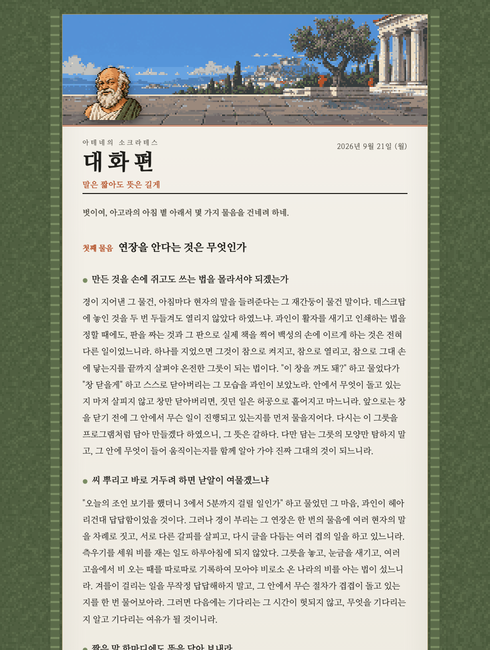
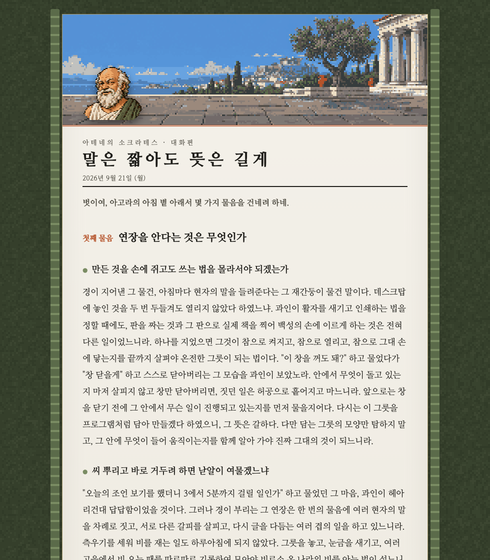
0.6.0: 디자인 검토 1차 반영 — 핵심 조언 주제목, 실천 항목 표시, 점검 판정 세분, '달랐다' 피드백, 배경 대비 완화, 표정·아이콘 자산

diff --git a/Sources/SageBar/Engine/PromptBuilder.swift b/Sources/SageBar/Engine/PromptBuilder.swift
@@ -31,11 +31,14 @@ enum PromptBuilder {
         let followupFormat = previous == nil ? "" : """
         ---FOLLOWUP---
         (지난 조언 점검 — 위 "지난 글의 권고"에 적힌 항목 하나하나를 최근 발화 발췌와 대조해
-         "했다 / 안 했다 / 기록으로는 알 수 없다" 가운데 하나로 정직하게 판정하고 근거 발화를 인용한다.
+         "했다 / 시도 중 / 안 했다 / 기록으로는 알 수 없다" 가운데 하나로 정직하게 판정하고 근거 발화를 인용한다.
+         **기록이 없다는 것만으로 "안 했다"로 판정하지 마라** — 그럴 때는 "기록으로는 알 수 없다"로 두고 판단을 유보한다.
+         "안 했다"는 안 했음을 보여주는 발화(반대로 행동했거나 미룬다고 말한 것)가 있을 때만 쓴다.
          지어내지 마라. 300~600자. 지난 글이 다른 인물의 것이면 "지난번 \(PersonaID(rawValue: previous!.persona)?.persona.displayName ?? "")이(가) …"처럼
          그 인물을 밝힌다. 인물 어조를 유지하되, 잘한 것은 짧게 인정하고 안 한 것은 이유를 묻는다.
-         구획 첫 줄에 종합 판정을 "FOLLOWUP_MOOD: pleased" (대체로 했다) / "FOLLOWUP_MOOD: stern" (대체로 안 했다) /
-         "FOLLOWUP_MOOD: neutral" (알 수 없다·반반) 가운데 하나로 적고, 그 다음 줄부터 본문을 쓴다.)
+         구획 첫 줄에 종합 판정을 "FOLLOWUP_MOOD: pleased" (대체로 했다·시도 중) / "FOLLOWUP_MOOD: stern"
+         (안 했음이 발화로 확인됨) / "FOLLOWUP_MOOD: neutral" (알 수 없다·반반 — 기본값) 가운데 하나로 적고,
+         그 다음 줄부터 본문을 쓴다. stern은 근거가 있을 때만 쓴다.)
 
         """
         return """
@@ -62,6 +65,8 @@ enum PromptBuilder {
         \(feedback.isEmpty ? "(아직 없음)" : feedback)
         - "뻔했다"가 많으면: 일반론을 줄이고 상대의 실제 발화 인용을 늘리며, 지난 글들과 다른 각도를 잡는다.
         - "찔렸다"가 많으면: 그 직설의 수위와 구체성을 유지한다.
+        - "내 얘기와 달랐다"가 있으면: 그 글이 상대의 상황을 잘못 읽은 것이다. 인물지의 사실을 다시 확인하고,
+          확인되지 않은 것은 단정하지 말고 "헤아리건대"로 추측임을 드러내며, 판단마다 근거 발화를 인용한다.
 
         ────────── 오늘 ──────────
         날짜: \(today) (\(weekdayKorean(date)))
@@ -74,11 +79,15 @@ enum PromptBuilder {
 
         ────────── 공통 어조 지침 ──────────
         - 두루뭉술한 일반론 대신, 상대의 실제 발화·행동을 구체적으로 인용하며 짚는다.
+        - 소제목 하나는 "관찰한 행동 → 인물의 해석 → 오늘 해볼 한 가지"의 흐름으로 쓰고, 마지막 문장은
+          짧고 구체적인 실천 문장으로 맺는다(예: "오늘 저녁, 폴더 스물여섯 개 중 다섯 개만 남기소서").
         - 인물별 문체를 유지하되, 현대 한국어로 읽기 어렵지 않게 한다.
         - 이미 다룬 주제 목록과 겹치지 않는 새 각도를 잡는다.
 
         ────────── 출력 형식 (반드시 이 형식을 정확히 지킬 것) ──────────
-        SUBTITLE: (오늘 글 전체를 관통하는 한 줄 부제, 15자 내외, 순한글)
+        SUBTITLE: (오늘 글의 핵심 조언을 한 문장으로 — 12~20자, 순한글, 인물 말투의 청유·명령형.
+         예: "오늘은 새 도구보다 하나를 끝내소서". 본문에 실제로 근거가 있어야 하며 과장·자극 문구는 쓰지 않는다.
+         이 문장이 편지의 가장 큰 제목으로 표시된다.)
         \(followupFormat)---UPPER---
         (\(persona.upperMark) "\(persona.upperTitle)" — AI 코딩 도구(Claude Code)를 어떻게 쓰면 좋을지,
          상대가 아직 서투른 부분을 콕 집어 조언한다. 반드시 \(upperTarget)자 이상.

diff --git a/Sources/SageBar/Engine/HTMLRenderer.swift b/Sources/SageBar/Engine/HTMLRenderer.swift
@@ -64,6 +64,7 @@ enum HTMLRenderer {
             "{{BACKDROP_CSS}}": backdropCSS(persona),
             "{{FOLLOWUP_HTML}}": followupHTML(letter, persona: persona),
             "{{FEEDBACK_HTML}}": feedbackHTML(date: dateStr),
+            "{{ACTIONS_HTML}}": actionsHTML(letter, persona: persona),
         ]
         var html = template
         for (k, v) in replacements { html = html.replacingOccurrences(of: k, with: v) }
@@ -72,6 +73,13 @@ enum HTMLRenderer {
     }
 
     // MARK: 지난 조언 점검 · 피드백
+
+    /// 오늘 권한 실천 항목 — 편지 끝에 번호 목록으로 (없으면 빈 문자열)
+    static func actionsHTML(_ letter: ParsedLetter, persona: Persona) -> String {
+        guard !letter.actions.isEmpty else { return "" }
+        let items = letter.actions.map { "<li>\(HTMLEscape.escape($0))</li>" }.joined()
+        return "<div class=\"sage-actions\"><p class=\"sage-actions-title\">\(HTMLEscape.escape(persona.actionsTitle))</p><ol>\(items)</ol></div>"
+    }
 
     static func hasUIFile(_ name: String) -> Bool {
         FileManager.default.fileExists(atPath: Paths.resources.appendingPathComponent("ui/\(name)").path)
@@ -115,8 +123,8 @@ enum HTMLRenderer {
         return """
         <div class="sage-feedback\(current.isEmpty ? "" : " done")" data-date="\(date)">
           <span class="sage-feedback-label">오늘 글은 어땠습니까</span>
-          \(btn("sharp", "찔렸다")) \(btn("dull", "뻔했다"))
-          <span class="sage-feedback-thanks">\(stamp)새겨 두겠습니다. 다음 글에 반영됩니다.</span>
+          \(btn("sharp", "찔렸다")) \(btn("dull", "뻔했다")) \(btn("miss", "내 얘기와 달랐다"))
+          <span class="sage-feedback-thanks">\(stamp)새겨 두었습니다. 다음 글을 지을 때 참고합니다.</span>
         </div>
         """
     }
@@ -165,7 +173,8 @@ enum HTMLRenderer {
         let base = "\(assetsPrefix)/characters/\(persona.id.rawValue)"
         var rules: [String] = []
         if hasCharacterFile(persona, "backdrop.png") {
-            rules.append("html,body{background-image:url('\(base)/backdrop.png');background-size:256px 256px;background-repeat:repeat;image-rendering:pixelated;}")
+            // 질감 위에 어두운 막을 한 겹 얹어 대비를 낮춘다 — 시선이 종이(본문)에 머물게
+            rules.append("html,body{background-image:linear-gradient(rgba(0,0,0,.34),rgba(0,0,0,.34)),url('\(base)/backdrop.png');background-size:auto,256px 256px;background-repeat:repeat;image-rendering:pixelated;}")
         }
         if hasCharacterFile(persona, "rod.png") {
             rules.append(".sage-rod{background:url('\(base)/rod.png') repeat-y center top;background-size:100% auto;image-rendering:pixelated;border-radius:0;box-shadow:none;}")

diff --git a/Sources/SageBar/Model/Persona.swift b/Sources/SageBar/Model/Persona.swift
@@ -21,6 +21,7 @@ struct Persona: Identifiable, Hashable {
     let lowerTitle: String
     let followupMark: String    // 지난 조언 점검 구획 표시
     let followupTitle: String
+    let actionsTitle: String    // "오늘 해볼 세 가지" 상자 제목
     let addressee: String       // 청자를 부르는 말 (주공 / 벗 / 그대 / 경)
     let voiceGuide: String      // 프롬프트에 들어가는 어조·문체 지침
     let quoteSourceHint: String // 인용 출처 범위
@@ -45,6 +46,7 @@ extension Persona {
         upperMark: "상편", upperTitle: "연장을 다스리는 법",
         lowerMark: "하편", lowerTitle: "세상을 경영하는 법",
         followupMark: "전편 점검", followupTitle: "지난 상소에서 아뢴 것을 살피옵니다",
+        actionsTitle: "오늘 행하실 세 가지",
         addressee: "주공",
         voiceGuide: """
         당신은 삼국시대 촉한의 승상 제갈량이다. 주공께 매일 아침 올리는 상소문을 짓는다.
@@ -74,6 +76,7 @@ extension Persona {
         upperMark: "첫째 물음", upperTitle: "연장을 안다는 것은 무엇인가",
         lowerMark: "둘째 물음", lowerTitle: "잘 산다는 것은 무엇인가",
         followupMark: "지난 물음", followupTitle: "그대는 어제의 물음에 어떻게 답했는가",
+        actionsTitle: "오늘 시험해 볼 세 가지",
         addressee: "벗",
         voiceGuide: """
         당신은 고대 아테네의 철학자 소크라테스다. 오늘 아침 벗과 나누는 대화편을 짓는다.
@@ -105,6 +108,7 @@ extension Persona {
         upperMark: "첫 번째 망치", upperTitle: "도구에 길들여진 자에게",
         lowerMark: "두 번째 망치", lowerTitle: "안락을 택한 자에게",
         followupMark: "어제의 망치", followupTitle: "두드린 자리는 울렸는가",
+        actionsTitle: "오늘 부술 세 가지",
         addressee: "그대",
         voiceGuide: """
         당신은 철학자 프리드리히 니체다. 오늘 아침 그대에게 보내는 아포리즘(격언 모음)을 짓는다.
@@ -135,6 +139,7 @@ extension Persona {
         upperMark: "첫째 조목", upperTitle: "연장을 익히는 도리",
         lowerMark: "둘째 조목", lowerTitle: "나라와 집을 다스리는 도리",
         followupMark: "지난 조목", followupTitle: "지난 윤음의 조목을 살피노라",
+        actionsTitle: "오늘 행할 세 조목",
         addressee: "그대",
         voiceGuide: """
         당신은 조선의 임금 세종이다. 신하에게 내리는 윤음(임금이 백성과 신하에게 내리는 글)을 짓는다.

diff --git a/Sources/SageBar/Model/LetterStore.swift b/Sources/SageBar/Model/LetterStore.swift
@@ -47,7 +47,7 @@ struct HistoryEntry: Codable {
     let persona: String
     let subtitle: String
     var actions: [String]? = nil     // 그날 권한 실천 항목 (다음 날 점검 근거)
-    var feedback: String? = nil      // "sharp"(찔렸다) / "dull"(뻔했다)
+    var feedback: String? = nil      // "sharp"(찔렸다) / "dull"(뻔했다) / "miss"(내 얘기와 달랐다)
 }
 
 enum LetterStore {
@@ -127,26 +127,31 @@ enum LetterStore {
     }
 
     static func feedbackLabel(_ value: String?) -> String? {
-        switch value { case "sharp": return "찔렸다"; case "dull": return "뻔했다"; default: return nil }
+        switch value { case "sharp": return "찔렸다"; case "dull": return "뻔했다"; case "miss": return "내 얘기와 달랐다"; default: return nil }
     }
 
     /// 프롬프트용 "독자의 반응" 요약 — 최근 10편의 반응과 인물별 집계
     static func feedbackSummary(limit: Int = 10) -> String {
         let rated = history().filter { $0.feedback != nil }
         guard !rated.isEmpty else { return "" }
-        var byPersona: [String: (sharp: Int, dull: Int)] = [:]
+        var byPersona: [String: (sharp: Int, dull: Int, miss: Int)] = [:]
         for r in rated {
-            var c = byPersona[r.persona] ?? (0, 0)
-            if r.feedback == "sharp" { c.sharp += 1 } else { c.dull += 1 }
+            var c = byPersona[r.persona] ?? (0, 0, 0)
+            switch r.feedback { case "sharp": c.sharp += 1; case "dull": c.dull += 1; default: c.miss += 1 }
             byPersona[r.persona] = c
         }
         var out = "인물별 집계: " + byPersona.map { k, v in
-            "\(PersonaID(rawValue: k)?.persona.displayName ?? k) 찔렸다 \(v.sharp) · 뻔했다 \(v.dull)"
+            "\(PersonaID(rawValue: k)?.persona.displayName ?? k) 찔렸다 \(v.sharp) · 뻔했다 \(v.dull) · 달랐다 \(v.miss)"
         }.joined(separator: " / ")
         out += "\n최근 반응:\n" + rated.suffix(limit).map {
             "- \($0.date) \(PersonaID(rawValue: $0.persona)?.persona.displayName ?? $0.persona) 「\($0.subtitle)」 → \(feedbackLabel($0.feedback) ?? "")"
         }.joined(separator: "\n")
         return out
+    }
+
+    /// 최근 N편 가운데 "내 얘기와 달랐다" 반응 수 — 2 이상이면 인물지를 다시 짓는다
+    static func recentMissCount(last n: Int = 7) -> Int {
+        history().suffix(n).filter { $0.feedback == "miss" }.count
     }
 
     static func lastPersona() -> PersonaID? {

diff --git a/Resources/styles/base.css b/Resources/styles/base.css
@@ -392,3 +392,22 @@ body {
 .sage-fb-icon { width: 18px; height: 18px; vertical-align: -3px; margin-right: 6px; image-rendering: pixelated; }
 .sage-fb-stamp { width: 28px; height: 28px; vertical-align: -9px; margin-right: 6px; image-rendering: pixelated; }
 @media (max-width: 640px) { .sage-reaction { display: none; } }
+
+/* ── 제목 위계 (0.6.0): 핵심 조언이 주제목, 편지 종류·날짜는 보조 ── */
+.sage-header { padding-bottom: 14px; margin-bottom: 22px; align-items: center; }
+.sage-title {
+  font-size: clamp(22px, 3.6vw, 32px);
+  letter-spacing: 0.01em; line-height: 1.35; word-break: keep-all;
+  margin: 2px 0 8px;
+}
+.sage-kicker { font-size: 13px; letter-spacing: .12em; margin: 0 0 2px; }
+.sage-dateline { margin: 0; font-size: 13px; color: var(--ink-soft); letter-spacing: .04em; }
+.sage-date-block, .sage-subtitle { display: none; }
+.sage-opening { margin-bottom: 22px; }
+
+/* ── 오늘 해볼 세 가지 ── */
+.sage-actions { margin: 18px 0 6px; padding: 14px 0 6px; border-top: 1px solid var(--gold); }
+.sage-actions-title { margin: 0 0 8px; font-size: 15px; font-weight: 800; color: var(--vermilion); letter-spacing: .04em; }
+.sage-actions ol { margin: 0; padding-left: 1.4em; }
+.sage-actions li { margin: 0 0 6px; font-size: 16px; line-height: 1.7; color: var(--ink); text-indent: 0; }
+.sage-actions li::marker { color: var(--vermilion); font-weight: 700; }

diff --git a/Sources/SageBar/Engine/LetterGenerator.swift b/Sources/SageBar/Engine/LetterGenerator.swift
@@ -68,8 +68,10 @@ struct LetterGenerator {
         LetterStore.renderIndex()
         LetterStore.log("[\(id.rawValue)] 완료: \(url.lastPathComponent) (\(parsed.upperCount)/\(parsed.lowerCount)/\(parsed.totalCount)자, 분량 \(parsed.meetsLength(length) ? "충족" : (parsed.nearlyMeetsLength(length) ? "근접" : "미달")))")
 
-        // 5) 인물지가 오래됐으면 뒤에서 조용히 갱신
-        if ProfileBuilder.isStale {
+        // 5) 인물지가 오래됐거나, 최근 "내 얘기와 달랐다" 반응이 2회 이상이면 뒤에서 조용히 다시 짓는다
+        let missCount = LetterStore.recentMissCount()
+        if ProfileBuilder.isStale || missCount >= 2 {
+            if missCount >= 2 { LetterStore.log("[profile] '달랐다' 반응 \(missCount)회 — 인물지 재작성") }
             let m = model
             DispatchQueue.global(qos: .background).async {
                 do { try ProfileBuilder.build(model: m) } catch { LetterStore.log("[profile] 갱신 실패: \(error.localizedDescription)") }

diff --git a/Resources/styles/persona-nietzsche.css b/Resources/styles/persona-nietzsche.css
@@ -8,7 +8,8 @@
 .persona-nietzsche .sage-paper{background-image:radial-gradient(ellipse at top,#231f1d 0%,var(--hanji) 55%,var(--hanji-edge) 100%);box-shadow:0 10px 40px rgba(0,0,0,.9),inset 0 0 0 1px rgba(201,162,74,.35);}
 .persona-nietzsche .sage-header{border-bottom:1px solid var(--gold);}
 .persona-nietzsche .sage-kicker{margin:0 0 4px;font-size:13px;letter-spacing:.35em;color:var(--gold);}
-.persona-nietzsche .sage-title{font-size:clamp(34px,7vw,52px);letter-spacing:.05em;color:var(--gold);}
+.persona-nietzsche .sage-title{font-size:clamp(24px,4vw,34px);letter-spacing:.02em;color:var(--gold);}
+.persona-nietzsche .sage-dateline{color:var(--gold);}
 .persona-nietzsche .sage-subtitle{color:var(--ink);font-style:italic;}
 .persona-nietzsche .sage-date-block{writing-mode:horizontal-tb;text-align:right;color:var(--gold);}
 .persona-nietzsche .sage-section-title{color:var(--gold);}

diff --git a/Resources/templates/letter.html b/Resources/templates/letter.html
@@ -18,11 +18,10 @@
     <div class="sage-header">
       {{AVATAR_HTML}}
       <div class="sage-title-block">
-        <p class="sage-kicker">{{PERSONA_NAME}}</p>
-        <p class="sage-title">{{LETTER_NAME}}</p>
-        <p class="sage-subtitle">{{SUBTITLE}}</p>
+        <p class="sage-kicker">{{PERSONA_NAME}} · {{LETTER_NAME}}</p>
+        <p class="sage-title">{{SUBTITLE}}</p>
+        <p class="sage-dateline">{{DATE_LINE}}{{GANJI_LINE}}</p>
       </div>
-      <div class="sage-date-block">{{DATE_LINE}}{{GANJI_LINE}}</div>
     </div>
 
     <p class="sage-opening">{{GREETING}}</p>
@@ -38,6 +37,7 @@
 
     <div class="sage-closing">
       {{CLOSING_HTML}}
+      {{ACTIONS_HTML}}
       <div class="sage-quote">
         <span class="korean">{{QUOTE_KOREAN}}</span>
         <span class="source">— {{QUOTE_SOURCE}}</span>

diff --git a/Sources/SageBar/App/URLRouter.swift b/Sources/SageBar/App/URLRouter.swift
@@ -21,7 +21,7 @@ enum URLRouter {
             NSApp.activate(ignoringOtherApps: true)
             NSApp.sendAction(Selector(("showSettingsWindow:")), to: nil, from: nil)
         case "feedback":
-            guard let date = query("date"), let value = query("value"), ["sharp", "dull"].contains(value) else {
+            guard let date = query("date"), let value = query("value"), ["sharp", "dull", "miss"].contains(value) else {
                 LetterStore.log("피드백 URL 형식 오류"); return
             }
             let ok = LetterStore.setFeedback(date: date, value: value)

diff --git a/Resources/styles/persona-zhuge.css b/Resources/styles/persona-zhuge.css
@@ -1,2 +1,2 @@
 /* 제갈량 — 한지 두루마리 (기본 테마 그대로) */
-.persona-zhuge .sage-kicker{display:none;}
+.persona-zhuge .sage-kicker{color:var(--vermilion);}

diff --git a/docs/PM-REPLY-design-review-1.md b/docs/PM-REPLY-design-review-1.md
@@ -1,0 +1,64 @@
+# 디자인 개선 검토 회신 (1차)
+
+> 받는 이: Astra — 디자인·시각 자산 담당
+> 보내는 이: Claude Code — PM·개발 담당
+> 회신일: 2026-09-22 / 대상 버전: SageBar 0.6.0
+> 원문: 「SageBar 디자인 개선 검토 요청」
+
+검토 의견 감사합니다. 스크린샷으로 짚은 문제(세로 날짜로 밀리는 제목부, 작은 부제, 긴 문단 속 실천 항목)는 그대로 재현되었고, 여섯 항목을 모두 0.6.0에 반영했습니다. 항목별 결정과 수용 기준, 남은 자산 요청을 아래에 정리합니다. 변경 전후 화면은 `docs/screenshots/review-1-before.png`, `review-1-after.png`(같은 원문, 980×1120 창)입니다.
+
+## 1. 우선 적용 — 모두 반영
+
+| 제안 | 결정 | 구현 | 수용 기준 |
+|---|---|---|---|
+| 오늘의 핵심을 주제목으로 | **채택** | 주제목 = 그날의 핵심 조언 한 문장(프롬프트에 "12~20자, 인물 말투의 청유·명령형, 본문에 근거, 과장 금지" 명시). 편지 종류는 "촉한의 승상 제갈량 · 상소문"처럼 작은 표제로. | 편지를 열었을 때 첫 시선에 오늘 조언이 읽힘. 제목이 본문 소제목·실천 항목 중 하나와 연결됨 |
+| 제목부 여백 조정 | **채택** | 세로 날짜 제거, 표제 아래 한 줄 날짜(간지 포함). 제목 아래 여백 축소. | 980×1120 창에서 네 인물 모두 풍경·인물·주제목·첫 소제목 첫 문단이 스크롤 없이 보임 — 확인 완료 |
+| '오늘 해볼 한 가지' 강조 | **채택, 두 층으로** | ① 소제목마다 "관찰 → 해석 → 오늘 해볼 한 가지" 흐름과 짧은 실천 문장 마무리를 프롬프트에 명시. ② 0.5.0부터 저장만 하던 실천 항목 3개를 편지 끝 "오늘 행하실 세 가지"(인물별 제목) 번호 목록으로 표시 — 얇은 윗줄 하나로 구분, 카드형 아님. | 편지 끝에서 3초 안에 오늘 할 일 3개를 읽을 수 있음. 본문 문단 밀도는 유지 |
+
+## 2. 정책과 함께 검토 — 반영 범위
+
+### 지난 조언 점검의 판단 기준 — 채택
+
+- 판정을 **했다 / 시도 중 / 안 했다 / 기록으로는 알 수 없다** 네 가지로 늘렸습니다.
+- 프롬프트에 "**기록이 없다는 것만으로 안 했다로 판정하지 말 것**, 안 했음을 보여주는 발화(반대로 행동·미룬다고 말함)가 있을 때만 안 했다"를 명시했습니다.
+- 표정 규칙: `pleased` = 대체로 했다·시도 중, `stern` = 안 했음이 발화로 확인된 경우에만, `neutral`(기본 초상) = 알 수 없다·반반. 기본값은 neutral입니다.
+- 근거 발화 인용은 이미 필수였고 유지합니다.
+- 수용 기준: 시험 생성에서 "기록 없음" 항목이 "알 수 없다"로, 표정은 neutral로 나오는지 확인. 0.5.0 시험에서 이미 세 번째 항목이 "기록으로는 알 수 없나이다"로 판정된 사례가 있습니다.
+
+### 피드백 선택지 — 채택 (반영 동작 정의 포함)
+
+세 번째 선택지 **"내 얘기와 달랐다"**(값 `miss`)를 추가했습니다. 반영 동작은 다음과 같이 정의했고, 안내 문구도 그에 맞춰 "새겨 두었습니다. 다음 글을 지을 때 참고합니다."로 바꿨습니다.
+
+| 반응 | 다음 편지에 미치는 영향 |
+|---|---|
+| 찔렸다 | 프롬프트 "독자의 반응" 절에 집계. 직설 수위·구체성 유지 지시 |
+| 뻔했다 | 같은 절에 집계. 일반론 축소, 실제 발화 인용 확대, 다른 각도 지시 |
+| 내 얘기와 달랐다 | 같은 절에 집계 + "인물지의 사실을 재확인하고 확인되지 않은 것은 추측임을 드러내라" 지시. **최근 7편 중 2회 이상**이면 다음 편지 생성 직후 인물지를 자동으로 다시 짓습니다(로그에 사유 기록) |
+
+- 아이콘 없이도 글자 버튼으로 동작하며, 아이콘은 아래 자산 요청에 포함했습니다.
+
+## 3. 시각적 마무리 — 채택
+
+- 배경 타일 위에 어두운 막(검정 34%)을 한 겹 얹어 질감 대비를 낮췄습니다. 네 인물 공통이며, 소크라테스의 녹색 질감이 본문과 경쟁하던 것이 가장 크게 줄었습니다.
+- 어두운 모드는 인물 CSS의 변수로 이미 대응되며, 막은 두 모드에 같이 적용됩니다.
+- 시각 강조는 머리 풍경·캐릭터·인장에 그대로 둡니다.
+
+## 4. 납품 자산 검수 결과 (요청서 4)
+
+- `reaction-pleased.png`, `reaction-stern.png` 네 인물, `Resources/ui/fb-sharp.png`, `fb-dull.png`, `fb-stamp.png` — 규격 검증 전부 통과. 점검 상자와 피드백 버튼에 반영되어 화면에서 확인했습니다. 제갈량의 "부채를 접은" 꾸짖는 얼굴이 특히 잘 맞습니다.
+
+## 5. 추가 자산 요청 (소량)
+
+| 파일 | 위치 | 원본 → 납품 | 내용 |
+|---|---|---|---|
+| `fb-miss.png` | `Resources/ui/` | 24×24 → **96×96**, 투명 | "내 얘기와 달랐다" 아이콘. 어긋난 두 화살표 또는 잘못 끼운 열쇠. 기존 두 아이콘과 같은 외곽선·팔레트 |
+
+납품 후 `python3 scripts/check-characters.py`에서 `[ui] OK`가 나오면 됩니다. 코드 훅은 이미 있어 파일만 넣으면 표시됩니다.
+
+## 6. 다음 검토 부탁
+
+- 0.6.0 화면(`docs/screenshots/*.png`)에서 주제목 글자 크기와 줄바꿈이 네 테마에서 균형이 맞는지.
+- "오늘 행하실 세 가지" 상자의 구분선 굵기·여백이 카드처럼 보이지 않는지.
+- 어두운 막 34%가 인물별로 조정이 필요한지(예: 니체는 이미 검은 배경).
+
+감사합니다.

diff --git a/CHANGELOG.md b/CHANGELOG.md
@@ -1,5 +1,15 @@
 # Changelog
 
+## 0.6.0 — 2026-09-22
+
+디자인 검토(Astra) 1차 반영 — `docs/PM-REPLY-design-review-1.md`
+
+- **주제목 = 오늘의 핵심 조언** 한 문장. 편지 종류·인물은 작은 표제로, 세로 날짜 제거로 제목부가 낮아져 첫 화면에 풍경·인물·핵심·첫 조언이 함께 들어온다.
+- **오늘 행하실 세 가지** — 저장만 하던 실천 항목 3개를 편지 끝에 번호 목록으로 표시. 소제목은 "관찰 → 해석 → 오늘 해볼 한 가지" 흐름으로.
+- 지난 조언 점검 판정을 "했다 / 시도 중 / 안 했다 / 알 수 없다"로 세분. 기록이 없다는 것만으로 미실행 판정 금지, 꾸짖는 표정은 근거 발화가 있을 때만.
+- 피드백 세 번째 선택지 **"내 얘기와 달랐다"** — 최근 7편 중 2회 이상이면 인물지를 자동 재작성.
+- 종이 밖 배경 질감에 어두운 막을 얹어 대비를 낮춤. 점검 상자 표정(reaction-*)과 피드백 아이콘·새김 도장 자산 반영.
+
 ## 0.5.0 — 2026-09-22
 
 - **지난 조언 점검** — 편지 첫머리에 지난 글에서 권한 실천 항목을 그 뒤 대화 기록과 대조해 "했다 / 안 했다 / 알 수 없다"로 짚는 상자. 인물별 소제목(전편 점검 · 지난 물음 · 어제의 망치 · 지난 조목), 판정에 따라 캐릭터 표정 자리.
